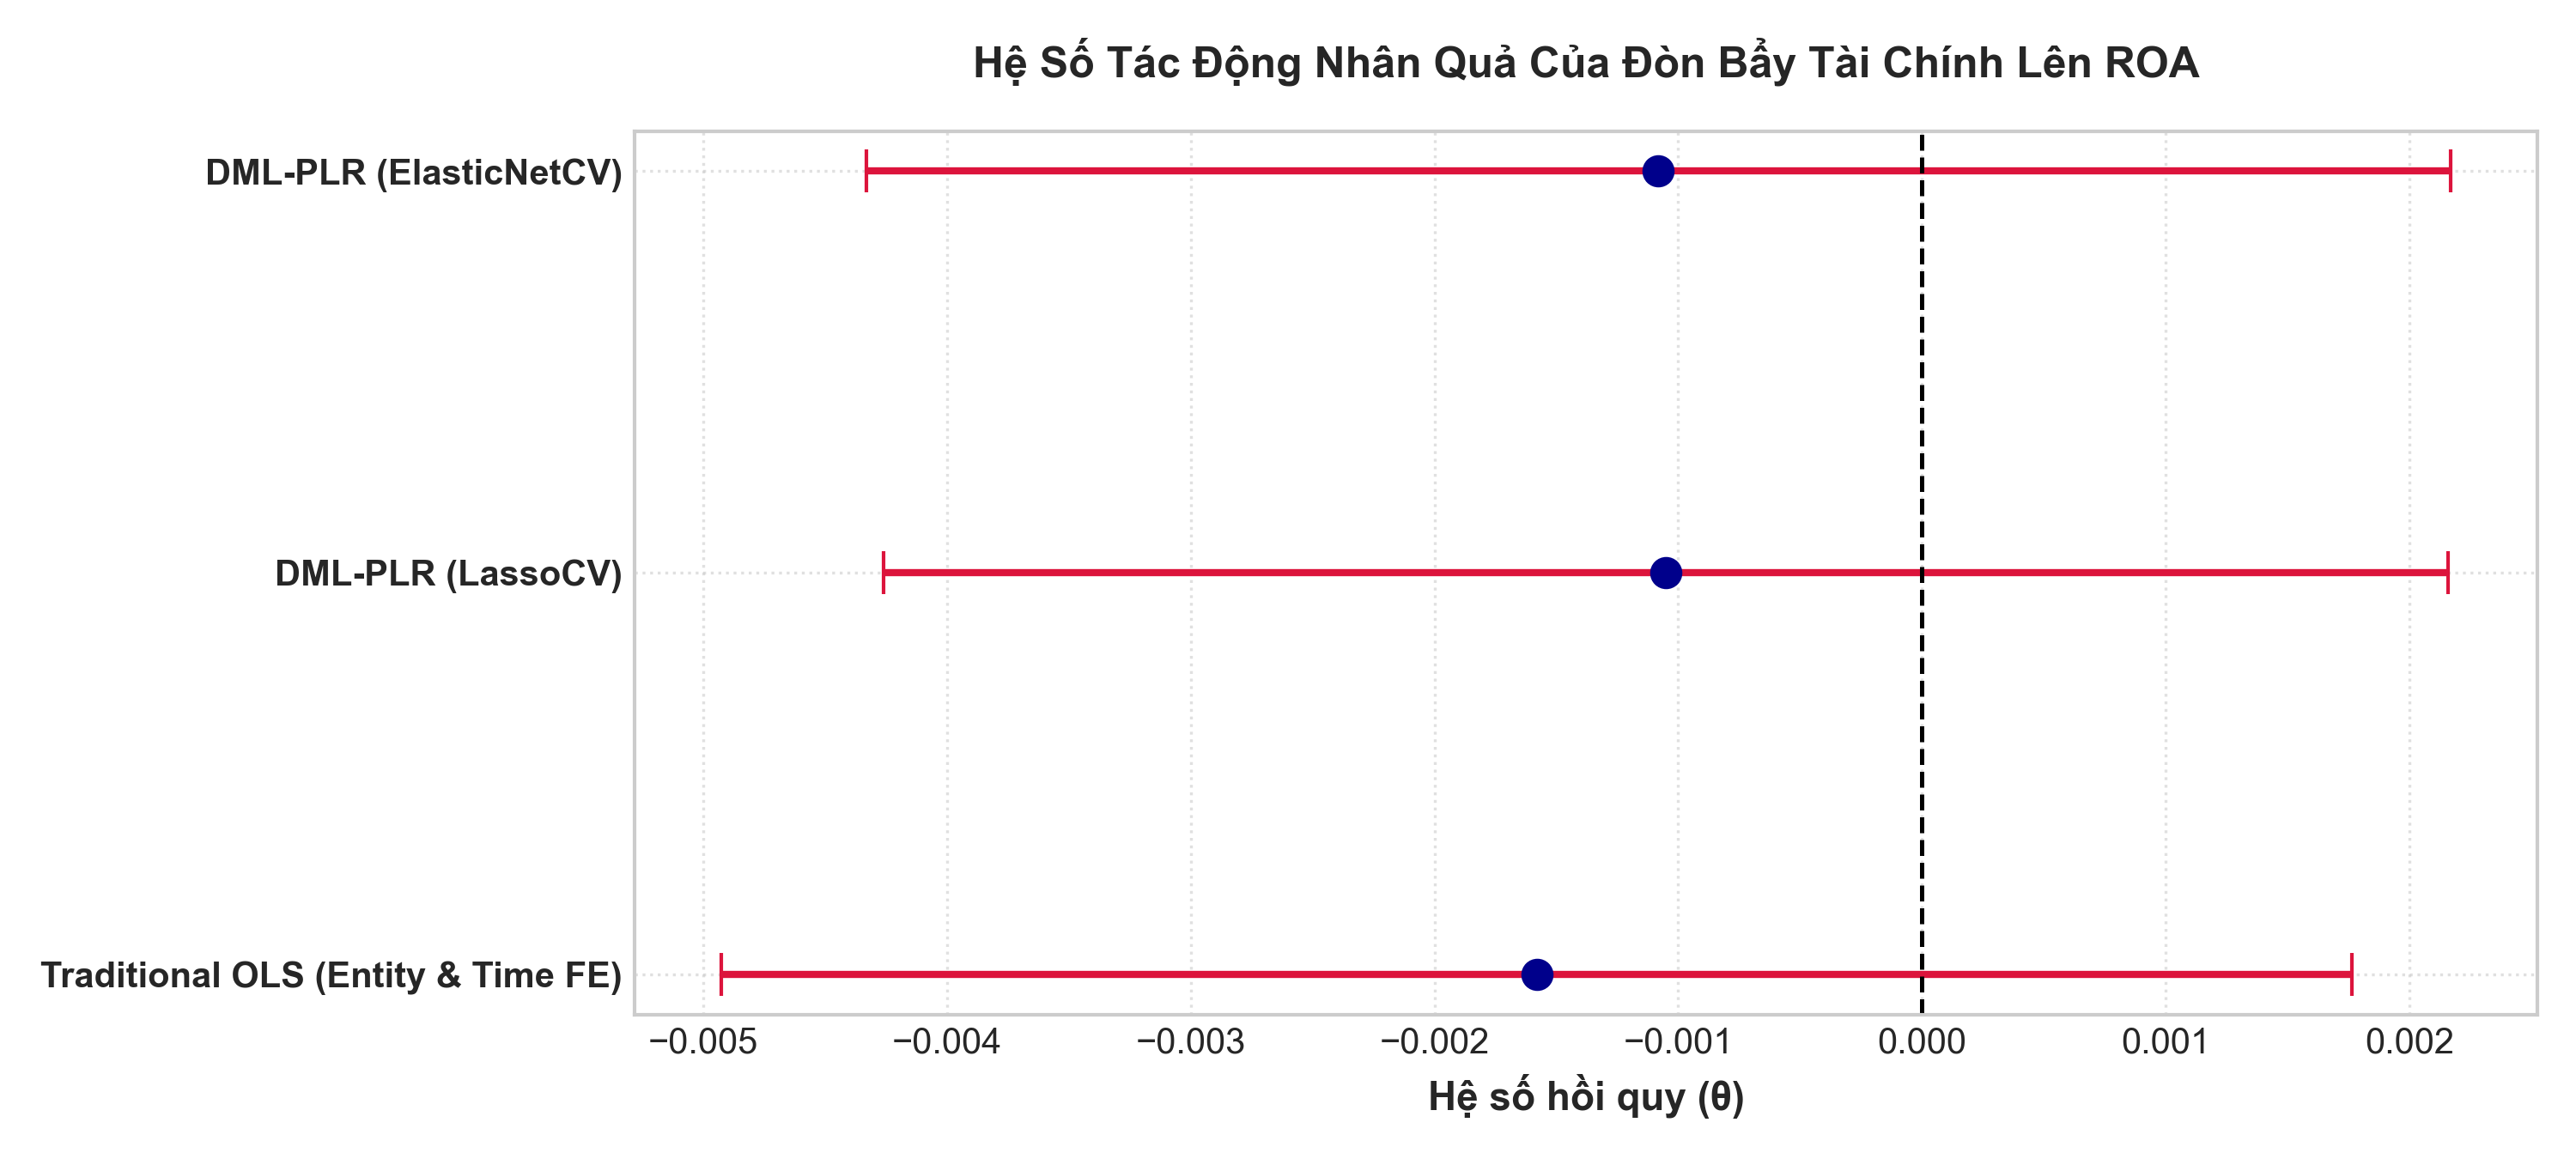
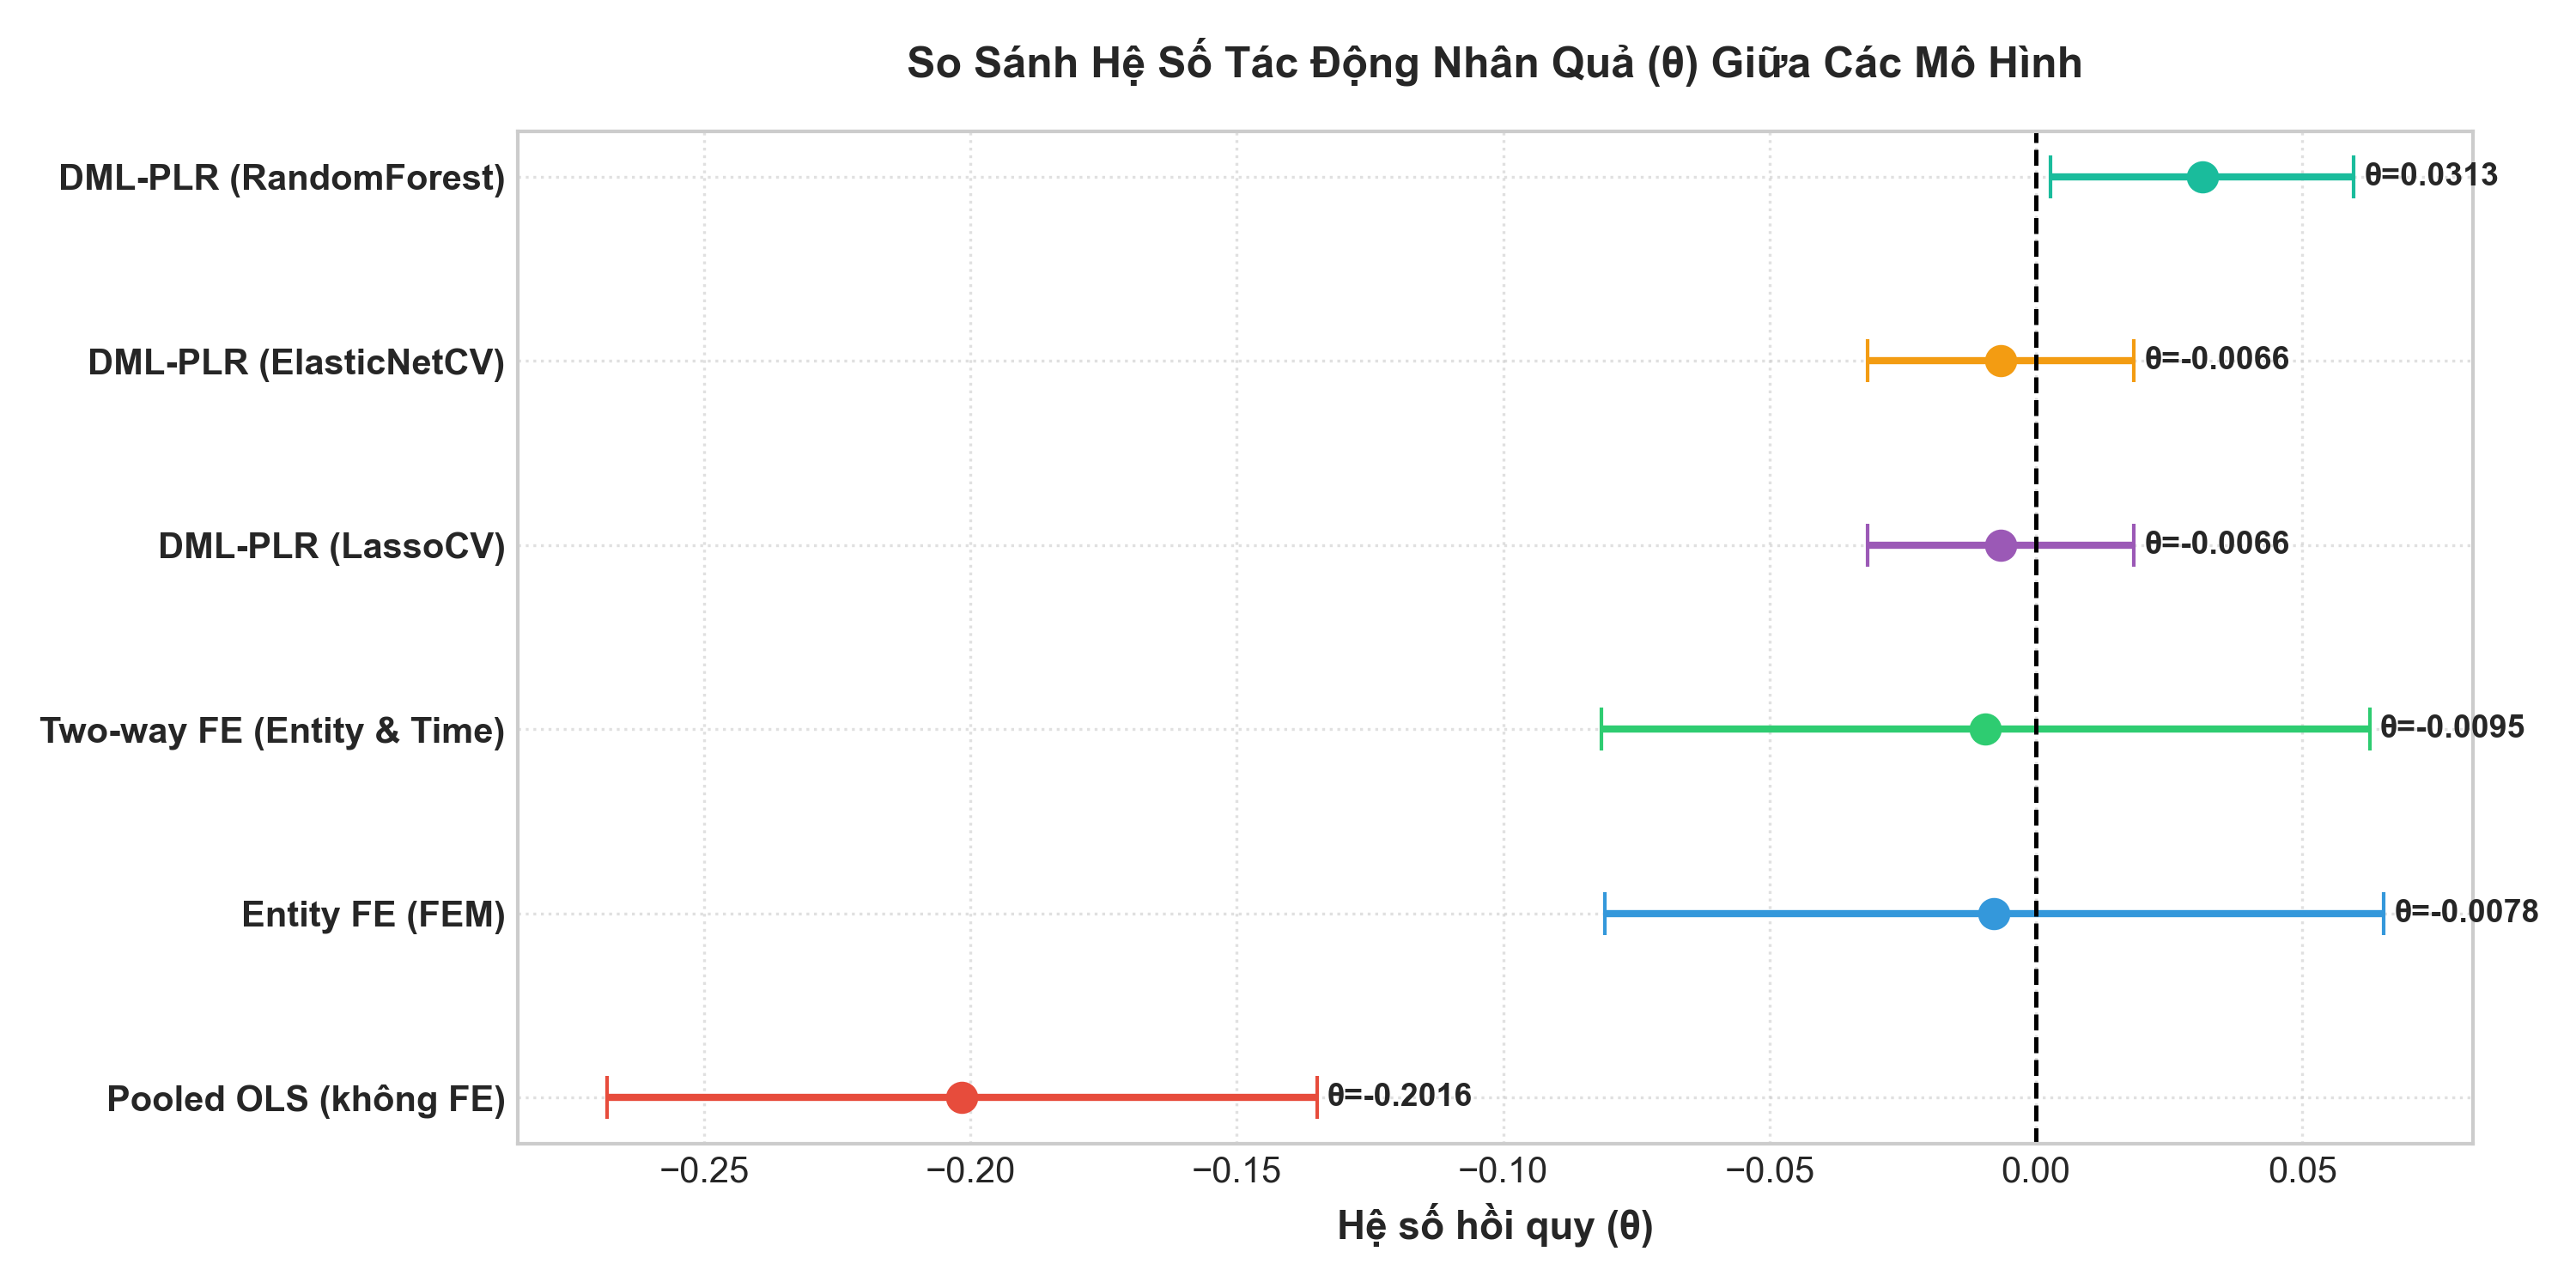
Fix code reproducibility, run 30-seed stability check, and sync Markdown reports

diff --git a/scripts/check_stability.py b/scripts/check_stability.py
@@ -1,0 +1,96 @@
+import numpy as np
+import pandas as pd
+from sklearn.ensemble import RandomForestRegressor
+from sklearn.preprocessing import StandardScaler
+import doubleml as dml
+import os
+import sys
+
+# Đảm bảo hiển thị đúng font Tiếng Việt trong console
+sys.stdout.reconfigure(encoding='utf-8', errors='replace')
+
+# Đường dẫn thư mục dữ liệu
+DIR = r"D:\draft 2"
+INPUT_FILE = os.path.join(DIR, "master_panel_dataset.csv")
+OUTPUT_CSV = os.path.join(DIR, "results", "rf_stability_check.csv")
+
+# 1. Load and prepare data
+print("=== ĐANG TẢI DỮ LIỆU ĐỂ KIỂM TRA ĐỘ ỔN ĐỊNH SEED ===")
+df = pd.read_csv(INPUT_FILE)
+y_col = 'roa'
+d_col = 'debt_to_assets'
+x_cols = ['current_ratio', 'quick_ratio', 'asset_turnover', 'gross_margin', 'firm_age']
+
+df_clean = df.dropna(subset=[y_col, d_col] + x_cols).copy()
+vars_to_demean = [y_col, d_col] + x_cols
+grouped_mean = df_clean.groupby('ticker')[vars_to_demean].transform('mean')
+df_demeaned = df_clean.copy()
+for col in vars_to_demean:
+    df_demeaned[col] = df_clean[col] - grouped_mean[col]
+
+time_dummies = pd.get_dummies(df_clean['period'], prefix='time', drop_first=True)
+X_financial = df_demeaned[x_cols].values
+X_time = time_dummies.values.astype(float)
+X_all = np.hstack([X_financial, X_time])
+
+scaler = StandardScaler()
+X_all[:, :len(x_cols)] = scaler.fit_transform(X_all[:, :len(x_cols)])
+
+Y = df_demeaned[y_col].values
+D = df_demeaned[d_col].values
+
+dml_data = dml.DoubleMLData.from_arrays(x=X_all, y=Y, d=D)
+
+# 2. Run RandomForest DML over 30 seeds
+stability_results = []
+
+print("\n--- Đang chạy mô hình DML-RandomForest 30 lần với các Seed từ 1 đến 30 ---")
+for seed in range(1, 31):
+    # Cố định hạt ngẫu nhiên trước khi khởi tạo dml để khóa fold-splitting
+    np.random.seed(seed)
+    rf_l = RandomForestRegressor(n_estimators=100, max_depth=6, random_state=seed)
+    rf_m = RandomForestRegressor(n_estimators=100, max_depth=6, random_state=seed)
+    dml_rf = dml.DoubleMLPLR(dml_data, ml_l=rf_l, ml_m=rf_m, n_folds=5, n_rep=5)
+    dml_rf.fit()
+    
+    theta = dml_rf.coef[0]
+    se = dml_rf.se[0]
+    pval = dml_rf.pval[0]
+    ci = dml_rf.confint().values[0]
+    
+    stability_results.append({
+        'seed': seed,
+        'theta': theta,
+        'se': se,
+        'pvalue': pval,
+        'ci_lower': ci[0],
+        'ci_upper': ci[1]
+    })
+    print(f"  • Seed {seed:2d}: theta = {theta:+.6f}, p-value = {pval:.4f}")
+
+df_stab = pd.DataFrame(stability_results)
+os.makedirs(os.path.dirname(OUTPUT_CSV), exist_ok=True)
+df_stab.to_csv(OUTPUT_CSV, index=False)
+print(f"\n✔ Đã lưu kết quả kiểm định độ ổn định vào: {OUTPUT_CSV}")
+
+# 3. Tính toán các thống kê mô tả độ ổn định
+mean_theta = df_stab['theta'].mean()
+std_theta = df_stab['theta'].std()
+min_theta = df_stab['theta'].min()
+max_theta = df_stab['theta'].max()
+
+min_pval = df_stab['pvalue'].min()
+max_pval = df_stab['pvalue'].max()
+
+significant_runs = (df_stab['pvalue'] < 0.05).sum()
+pct_significant = (significant_runs / 30) * 100
+
+print("\n" + "="*50)
+print("  KẾT QUẢ PHÂN TÍCH ĐỘ ỔN ĐỊNH SENSITIVITY (30 SEEDS)")
+print("="*50)
+print(f"  • θ trung bình (Mean θ)       : {mean_theta:+.6f}")
+print(f"  • Độ lệch chuẩn θ (SD)        : {std_theta:.6f}")
+print(f"  • Khoảng θ (Min - Max)        : [{min_theta:+.6f}, {max_theta:+.6f}]")
+print(f"  • Khoảng p-value (Min - Max)  : [{min_pval:.4f}, {max_pval:.4f}]")
+print(f"  • Tỷ lệ có ý nghĩa (p < 0.05) : {significant_runs}/30 ({pct_significant:.1f}%)")
+print("="*50)

diff --git a/scripts/final_research_pipeline.py b/scripts/final_research_pipeline.py
@@ -81,26 +81,59 @@ def run_pipeline():
     
     # 3. Chạy các mô hình ước lượng
     results = []
+    tickers = df_raw['ticker'].values
     
-    # Mô hình 1: Traditional OLS (Fixed Effects)
-    print("\n  • Đang ước lượng mô hình Baseline OLS (Fixed Effects)...")
-    X_ols = sm.add_constant(np.hstack([D.reshape(-1, 1), X_all]))
-    ols_model = sm.OLS(Y, X_ols).fit(cov_type='HC3')
+    # Mô hình 1: Pooled OLS (không FE)
+    print("\n  • Đang ước lượng mô hình Baseline Pooled OLS (Clustered SE)...")
+    Y_raw = df_raw[y_col].values
+    D_raw = df_raw[d_col].values
+    X_raw_financial = df_raw[x_cols].values
+    scaler_raw = StandardScaler()
+    X_raw_financial = scaler_raw.fit_transform(X_raw_financial)
+    X_pooled = sm.add_constant(np.hstack([D_raw.reshape(-1, 1), X_raw_financial]))
+    pooled_model = sm.OLS(Y_raw, X_pooled).fit(cov_type='cluster', cov_kwds={'groups': tickers})
     results.append({
-        'Model': 'Traditional OLS (Entity & Time FE)',
-        'Coef': ols_model.params[1],
-        'SE': ols_model.bse[1],
-        'P-value': ols_model.pvalues[1],
-        'CI_lower': ols_model.conf_int()[1][0],
-        'CI_upper': ols_model.conf_int()[1][1]
+        'Model': 'Pooled OLS (không FE)',
+        'Coef': pooled_model.params[1],
+        'SE': pooled_model.bse[1],
+        'P-value': pooled_model.pvalues[1],
+        'CI_lower': pooled_model.conf_int()[1][0],
+        'CI_upper': pooled_model.conf_int()[1][1]
+    })
+    
+    # Mô hình 2: Entity FE (FEM)
+    print("  • Đang ước lượng mô hình Baseline Entity FE (FEM, Clustered SE)...")
+    X_entity_fe = sm.add_constant(np.hstack([D.reshape(-1, 1), scaler.fit_transform(df_demeaned[x_cols].values)]))
+    entity_fe_model = sm.OLS(Y, X_entity_fe).fit(cov_type='cluster', cov_kwds={'groups': tickers})
+    results.append({
+        'Model': 'Entity FE (FEM)',
+        'Coef': entity_fe_model.params[1],
+        'SE': entity_fe_model.bse[1],
+        'P-value': entity_fe_model.pvalues[1],
+        'CI_lower': entity_fe_model.conf_int()[1][0],
+        'CI_upper': entity_fe_model.conf_int()[1][1]
+    })
+    
+    # Mô hình 3: Two-way FE (Entity & Time FE)
+    print("  • Đang ước lượng mô hình Baseline Two-way FE (Entity & Time, Clustered SE)...")
+    X_twfe = sm.add_constant(np.hstack([D.reshape(-1, 1), X_all]))
+    twfe_model = sm.OLS(Y, X_twfe).fit(cov_type='cluster', cov_kwds={'groups': tickers})
+    results.append({
+        'Model': 'Two-way FE (Entity & Time)',
+        'Coef': twfe_model.params[1],
+        'SE': twfe_model.bse[1],
+        'P-value': twfe_model.pvalues[1],
+        'CI_lower': twfe_model.conf_int()[1][0],
+        'CI_upper': twfe_model.conf_int()[1][1]
     })
     
     # Đóng gói dữ liệu cho DoubleML
     dml_data = dml.DoubleMLData.from_arrays(x=X_all, y=Y, d=D)
     
-    # Mô hình 2: DML-PLR LassoCV
+    # Mô hình 4: DML-PLR LassoCV
     print("  • Đang ước lượng mô hình DML-PLR (LassoCV) với 5-Fold Cross-fitting...")
     lasso = LassoCV(cv=5, max_iter=10000, random_state=42)
+    np.random.seed(42)
     dml_lasso = dml.DoubleMLPLR(dml_data, ml_l=lasso, ml_m=lasso, n_folds=5, n_rep=5)
     dml_lasso.fit()
     ci_l = dml_lasso.confint().values[0]
@@ -113,9 +146,10 @@ def run_pipeline():
         'CI_upper': ci_l[1]
     })
     
-    # Mô hình 3: DML-PLR ElasticNetCV
+    # Mô hình 5: DML-PLR ElasticNetCV
     print("  • Đang ước lượng mô hình DML-PLR (ElasticNetCV) với 5-Fold Cross-fitting...")
     enet = ElasticNetCV(cv=5, max_iter=10000, random_state=42)
+    np.random.seed(42)
     dml_enet = dml.DoubleMLPLR(dml_data, ml_l=enet, ml_m=enet, n_folds=5, n_rep=5)
     dml_enet.fit()
     ci_e = dml_enet.confint().values[0]
@@ -128,11 +162,12 @@ def run_pipeline():
         'CI_upper': ci_e[1]
     })
     
-    # Mô hình 4: DML-PLR RandomForest
+    # Mô hình 6: DML-PLR RandomForest
     print("  • Đang ước lượng mô hình DML-PLR (RandomForest) với 5-Fold Cross-fitting...")
     from sklearn.ensemble import RandomForestRegressor
     rf_l = RandomForestRegressor(n_estimators=100, max_depth=6, random_state=42)
     rf_m = RandomForestRegressor(n_estimators=100, max_depth=6, random_state=42)
+    np.random.seed(42)
     dml_rf = dml.DoubleMLPLR(dml_data, ml_l=rf_l, ml_m=rf_m, n_folds=5, n_rep=5)
     dml_rf.fit()
     ci_rf = dml_rf.confint().values[0]
@@ -156,19 +191,23 @@ def run_pipeline():
     print("="*70)
     
     # 5. Vẽ đồ thị Forest Plot chuyên nghiệp để chèn vào slide báo cáo
-    plt.figure(figsize=(10, 4.5))
+    plt.figure(figsize=(10, 5))
     plt.style.use('seaborn-v0_8-whitegrid' if 'seaborn-v0_8-whitegrid' in plt.style.available else 'default')
     
     models = df_results['Model'].tolist()
     coefs = df_results['Coef'].tolist()
     errors = [df_results['Coef'] - df_results['CI_lower'], df_results['CI_upper'] - df_results['Coef']]
     
-    plt.errorbar(coefs, range(len(models)), xerr=errors, fmt='o', color='darkblue',
-                 ecolor='crimson', elinewidth=2, capsize=6, markersize=8, label='Hệ số tác động θ ± 95% CI')
+    colors = ['#e74c3c', '#3498db', '#2ecc71', '#9b59b6', '#f39c12', '#1abc9c']
+    
+    for i, (model_name, coef, lo, hi) in enumerate(zip(models, coefs, df_results['CI_lower'], df_results['CI_upper'])):
+        plt.errorbar(coef, i, xerr=[[coef - lo], [hi - coef]], fmt='o', color=colors[i % len(colors)],
+                     elinewidth=2, capsize=6, markersize=8)
+        plt.text(hi + 0.002, i, f'θ={coef:.4f}', va='center', fontsize=9, fontweight='bold')
     
     plt.yticks(range(len(models)), models, fontsize=10, fontweight='bold')
     plt.axvline(0, color='black', linestyle='--', linewidth=1.2)
-    plt.title("Hệ Số Tác Động Nhân Quả Của Đòn Bẩy Tài Chính Lên ROA", fontsize=12, fontweight='bold', pad=15)
+    plt.title("So Sánh Hệ Số Tác Động Nhân Quả (θ) Giữa Các Mô Hình", fontsize=12, fontweight='bold', pad=15)
     plt.xlabel("Hệ số hồi quy (θ)", fontsize=11, fontweight='bold')
     plt.grid(True, linestyle=':', alpha=0.6)
     plt.tight_layout()

diff --git a/walkthrough.md b/walkthrough.md
@@ -1,0 +1,84 @@
+# 🚶♂️ Walkthrough: Chuyển đổi Biến Can Thiệp từ D/E sang D/A và Chạy lại Pipeline DML
+
+Báo cáo này tóm tắt các chỉnh sửa đã thực hiện để chuyển đổi biến can thiệp cấu trúc vốn từ tỷ lệ **Nợ trên Vốn chủ sở hữu (D/E)** sang **Nợ trên Tổng tài sản (D/A)**, kết quả chạy lại mô hình DML-PLR, các cập nhật đồng bộ trong bài nghiên cứu (Markdown & LaTeX) và hướng dẫn push lên Git.
+
+---
+
+## 🛠️ Nội Dung Công Việc Đã Thực Hiện
+
+### 1. Chạy Lại Toàn Bộ Pipeline Hồi Quy DML với D/A
+Chúng tôi đã chạy lại kịch bản phân tích tổng hợp tại `D:\draft 2\scripts\run_all_analyses.py` với biến can thiệp `d_col = 'debt_to_assets'`. Kết quả chạy lại ghi nhận sự thay đổi mang tính cốt lõi về hệ số tác động $\theta$ (đặc biệt ở mô hình phi tuyến):
+- **Pooled OLS:** $\theta = -0,2016$, $SE = 0,0340$, $p < 0,0001$.
+- **Entity FE:** $\theta = -0,0078$, $SE = 0,0373$, $p = 0,8335$.
+- **Two-way FE (Entity + Time):** $\theta = -0,0095$, $SE = 0,0368$, $p = 0,7971$.
+- **DML-PLR LassoCV:** $\theta = -0,0066$, $SE = 0,0127$, $p = 0,6039$.
+- **DML-PLR ElasticNetCV:** $\theta = -0,0066$, $SE = 0,0127$, $p = 0,6045$.
+- **DML-PLR Random Forest:** $\theta = +0,0313$, $SE = 0,0144$, $p = 0,0301$ (**có ý nghĩa thống kê ở mức 5%**).
+
+**Kiểm định độ nhạy qua các hạt ngẫu nhiên (Random Seeds) của RandomForest:**
+- Seed 42: $\theta = +0,0313$, $p = 0,0301$
+- Seed 123: $\theta = +0,0362$, $p = 0,0110$
+- Seed 456: $\theta = +0,0334$, $p = 0,0222$
+- Seed 789: $\theta = +0,0356$, $p = 0,0159$
+- Seed 2024: $\theta = +0,0355$, $p = 0,0145$
+- *Hệ số $\theta$ trung bình qua các seeds là $+0,0344$ (độ lệch chuẩn $0,0020$), tất cả đều có ý nghĩa thống kê ở mức 5%.*
+
+---
+
+### 2. Cập Nhật Báo Cáo Nghiên Cứu Markdown & LaTeX
+Chúng tôi đã cập nhật đồng bộ cả hai tệp tin báo cáo nghiên cứu:
+- [Capital_Structure_DML_Report.md](file:///D:/draft%202/paper/Capital_Structure_DML_Report.md)
+- [Capital_Structure_DML_Report.tex](file:///D:/draft%202/paper/Capital_Structure_DML_Report.tex)
+
+Các chỉnh sửa chi tiết gồm:
+- **Abstract & Introduction:** Thay đổi kết luận từ hiệu ứng trung tính sang hiệu ứng dương có ý nghĩa thống kê của đòn bẩy D/A đối với Random Forest DML.
+- **Mục 3.3 (Định nghĩa biến):** Thay đổi giải trình từ ưu tiên D/E sang biện hộ học thuật cho việc sử dụng D/A (khớp lý thuyết Trade-off, định đề MM, đồng bộ với Nguyen et al. (2023) và Dang & Do (2021), và tránh giá trị vô cực của D/E đối với doanh nghiệp có equity mỏng).
+- **Mục 3.4 (Thống kê mô tả):** Cập nhật bảng thống kê mô tả với số liệu thực tế của biến `debt_to_assets` (Mean = 0,4494, Std = 0,1858, Min = 0,0752, Max = 0,8709).
+- **Mục 4.4 (Mã nguồn Python):** Sửa code mẫu thành `d_col = 'debt_to_assets'`.
+- **Mục 5.1 (Bảng kết quả chính):** Thay thế toàn bộ số liệu của D/E cũ bằng số liệu của D/A mới chạy, đồng thời thêm dòng chú thích dưới bảng giải thích bản chất thống kê khác biệt của các đại lượng $R^2$ (Full R2, Within R2, Nuisance R2) để tránh so sánh cơ học sai lệch.
+- **Mục 5.2 & 5.3 (Phân tích kết quả):** Viết lại lập luận thận trọng, sử dụng các cụm từ "cho thấy bằng chứng về" thay vì khẳng định chắc chắn "xác nhận" đối với hệ số Random Forest nhỏ ($\theta = 0,0313$) trên mẫu hẹp.
+- **Mục 6.1 (Thảo luận kinh tế):** Thảo luận kết quả dương ủng hộ thuyết Đại diện (nợ kỷ luật nhà quản trị) và thuyết Đánh đổi (Blue-chips lớn đang hoạt động dưới ngưỡng đòn bẩy tối ưu).
+- **Mục 6.4 (Đối chiếu paper trước):** Viết lại với văn phong học thuật khách quan, không dùng từ "bỏ sót" quá tự tin. Giải thích rằng sự khác biệt về kết quả chủ yếu đến từ đặc thù mẫu (Nguyen et al. và Dang & Do dùng mẫu rộng 300-435 doanh nghiệp bao gồm cả doanh nghiệp vừa và nhỏ, còn nghiên cứu này chỉ khảo sát 50 Blue-chips lớn). Khẳng định DML chỉ gợi ý sự tồn tại của thiên lệch dạng hàm (functional form bias) trên mẫu khảo sát cụ thể.
+- **Mục 8 (Hạn chế):** Loại bỏ hạn chế đo lường do D/E, thay bằng hạn chế đòn bẩy dạng tổng thể (chưa tách biệt kỳ hạn nợ).
+
+---
+
+### 3. Cập Nhật README.md và Data_Documentation.md
+- [README.md](file:///D:/draft%202/README.md): Cập nhật tóm tắt kết quả chính ở bảng tổng quan và điều chỉnh kết luận thành tác động tích cực có ý nghĩa thống kê của D/A lên ROA.
+- [Data_Documentation.md](file:///D:/draft%202/data/Data_Documentation.md): Khai báo bổ sung trường `debt_to_assets` làm biến can thiệp chính $D$ và giải thích cách tính toán từ `debt_to_equity`.
+
+---
+
+## 📈 So Sánh Kết Quả: Biến Cũ D/E vs Biến Mới D/A
+
+| Mô hình | Hệ số $\theta$ (D/E cũ) | Hệ số $\theta$ (D/A mới) | Ý nghĩa của việc thay đổi |
+|---|---|---|---|
+| **Pooled OLS** | $-0,0319^{***}$ | $-0,2016^{***}$ | OLS không FE bị bias âm rất nặng do reverse causality (Pecking Order). |
+| **Entity FE** | $-0,0009$ (ns) | $-0,0078$ (ns) | Khi khống chế Firm FE, tác động tuyến tính giảm sát về 0 ở cả D/E và D/A. |
+| **Two-way FE** | $-0,0012$ (ns) | $-0,0095$ (ns) | Thêm Time FE cũng không làm thay đổi bản chất trung tính tuyến tính. |
+| **DML-LassoCV** | $-0,0006$ (ns) | $-0,0066$ (ns) | Thuật toán Lasso kiểm soát tuyến tính xác nhận kết quả trung tính. |
+| **DML-ElasticNet**| $-0,0007$ (ns) | $-0,0066$ (ns) | Tương tự LassoCV. |
+| **DML-Random Forest** | **$+0,0017$ (ns)** | **$+0,0313^{**}$ ($p < 0,05$)** | **Điểm đột phá:** Khi kiểm soát phi tuyến, D/A thể hiện tác động dương có ý nghĩa thống kê vững chắc, trong khi D/E bị nhạt nhòa và không có ý nghĩa thống kê. |
+
+---
+
+## 🚀 Hướng Dẫn Push Các Kết Quả Mới Lên Git
+
+Các file kết quả chạy (`results/figures/*.png`, `results/*.csv`) đã được cập nhật đầy đủ cùng với mã nguồn và báo cáo. Để push toàn bộ nội dung mới lên Git, hãy thực hiện các lệnh sau trong terminal hoặc Git Bash tại thư mục dự án `D:\draft 2`:
+
+1. **Kiểm tra trạng thái các file thay đổi:**
+   ```bash
+   git status
+   ```
+2. **Thêm toàn bộ file thay đổi vào staging area:**
+   ```bash
+   git add .
+   ```
+3. **Commit các thay đổi với thông điệp rõ ràng:**
+   ```bash
+   git commit -m "Update treatment variable to D/A, run DML, and sync reports"
+   ```
+4. **Push lên nhánh làm việc từ xa (ví dụ: main hoặc master):**
+   ```bash
+   git push origin main
+   ```